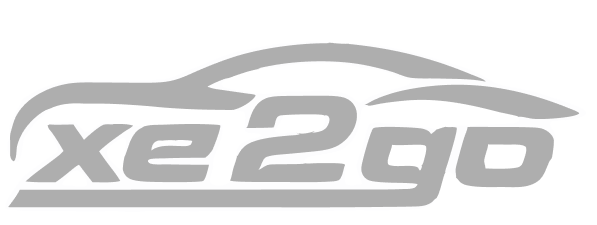
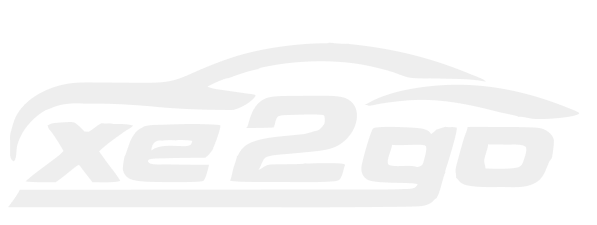
cập nhật style và hình ảnh xe2go

diff --git a/public/css/styles.css b/public/css/styles.css
@@ -543,64 +543,6 @@ CSS này thiết lập một slider toàn màn hình với các chuyển đổi 
     }
 }
 
-/* Chế độ sáng */
-body.light-mode {
-    background-color: white;
-    color: black;
-}
-
-body.light-mode .slider-background {
-    color: black;
-}
-
-body.light-mode .logo-text-waving {
-    border-bottom: 0.1rem solid black;
-}
-
-body.light-mode .hide {
-    background: #f0f0f0;
-    color: #333;
-}
-
-body.light-mode .slider-button {
-    background-color: #f0f0f0;
-    color: black;
-}
-
-body.light-mode .slider-button:hover {
-    background-color: black;
-    color: white;
-}
-
-/* Chế độ tối */
-body.dark-mode {
-    background-color: #121212;
-    color: white;
-}
-
-body.dark-mode .slider-background {
-    color: white;
-}
-
-body.dark-mode .logo-text-waving {
-    border-bottom: 0.1rem solid white;
-}
-
-body.dark-mode .hide {
-    background: #333;
-    color: #ddd;
-}
-
-body.dark-mode .slider-button {
-    background-color: #333;
-    color: white;
-}
-
-body.dark-mode .slider-button:hover {
-    background-color: white;
-    color: black;
-}
-
 /* Đặt navbar ở trên đầu thiết bị */
 #main-menu {
     position: fixed;
@@ -1849,6 +1791,7 @@ section#vfo {
         max-width: 100%;
         margin: 8px 0;
         overflow: hidden;
+        border-radius: var(--bs-border-radius);
 
         .box-image {
             object-fit: cover;
@@ -1970,23 +1913,74 @@ Các mục có nền hình ảnh và bóng đổ. */
 
 /* General styling for section#ypss */
 section#ypss {
-    background-color: white;
-    padding: 80px 100px;
+    display: flex;
+    justify-content: center;
+    position: relative;
+    color: var(--text-secondary);
 
     @media screen and (max-width: 1400px) {
         padding: 54px 32px;
     }
 }
 
+/* Thiết kế khung của tiêu đề nó đậm và có quyền lực khi nhìn */
+section#ypss .container-title {
+    display: flex;
+    align-items: center;
+    justify-content: center;
+    cursor: context-menu;
+    position: absolute;
+    left: 0;
+    top: -2rem;
+    width: -webkit-fill-available;
+    z-index: 1;
+
+    /* Tiêu đề nằm trên nội dung */
+    @media screen and (max-width: 1366px) {
+        top: 1rem;
+    }
+
+    @media screen and (max-width: 500px) {
+        top: -15rem;
+    }
+}
+
+/* thiết kế chữ mạnh mẽ và rõ ràng */
+section#ypss .container-title .title {
+    display: flex;
+    align-items: center;
+    justify-content: center;
+    height: 5rem;
+    background: var(--menu-link);
+    font-weight: 700;
+    font-size: 2rem;
+    color: var(--color-2);
+    text-transform: uppercase;
+    width: 50%;
+    border-radius: 2.5rem;
+    transition: all 0.3s ease-in-out;
+
+    @media screen and (max-width: 500px) {
+        width: 80% !important;
+        font-size: 1.5rem !important;
+    }
+}
+
+section#ypss .container-title .title:hover {
+    color: var(--text-secondary);
+    background: var(--menu-link-reverse);
+    transition: all 0.3s ease-in-out;
+}
+
 /* General container styling */
 section#ypss .container {
-    margin-top: -170px;
-    background-image: url(../images/trang_chu/xe2go/counters_bg.webp);
-    background-size: contain;
-    background-position: center;
-    background-repeat: no-repeat;
+
     box-shadow: 0px 0px 20px rgba(0, 0, 0, 0.1);
-    padding: 80px 100px;
+    padding: 4rem;
+    border-radius: var(--bs-border-radius);
+
+    border: 1px solid var(--menu-link);
+    background-color: #fff;
 
     /* // */
     /* chỉnh lại layout của container khi ở màn hình nhỏ*/
@@ -1996,6 +1990,7 @@ section#ypss .container {
         margin-top: -228px;
         padding: 80px 45px;
         box-shadow: 0px 0px 20px rgba(0, 0, 0, 0.1);
+        background-position: 0 24px;
     }
 
     @media screen and (max-width: 1400px) {
@@ -2008,6 +2003,13 @@ section#ypss .container {
 /* // */
 section#ypss .container .mobile {
     display: none;
+}
+
+section#ypss .container .desktop {
+    min-height: 100px;
+    display: flex;
+    align-items: center;
+    background-color: #ffffff80;
 }
 
 /* // */
@@ -2053,6 +2055,7 @@ section#ypss .box-item {
 
     section#ypss .owl-stage-outer {
         min-height: 200px;
+        padding-top: 4.5rem;
     }
 }
 
@@ -2122,14 +2125,45 @@ Các mục có đường kẻ, văn bản giới hạn dòng, và liên kết ki
 section#meet {
     padding-top: 120px;
     padding-bottom: 420px;
-    background-color: #fff;
+
+    .container>.row {
+        border: 1px solid var(--menu-link);
+        padding: 1rem;
+        border-radius: var(--bs-border-radius);
+        background: #fff;
+    }
+
+    .row>.col-12:nth-child(1) {
+        display: flex;
+        padding: 1rem;
+        border: 1px solid var(--menu-link);
+        background: var(--menu-link-bg);
+        border-radius: var(--bs-border-radius);
+        flex-direction: column;
+    }
+
+    @media screen and (max-width: 500px) {
+        .row>.col-12:nth-child(3) {
+            display: none;
+        }
+    }
+
 
     .box-item {
+
+        @media screen and (max-width: 500px) {
+            flex-direction: column;
+            align-items: center;
+            justify-content: center;
+            padding: 1rem;
+            margin: 1rem;
+
+        }
 
         hr {
             margin: 20px 0;
             border: none;
-            border-top: 5px solid var(--primary-color);
+            border-top: 5px solid var(--background-4);
             width: 60px;
         }
 
@@ -2149,7 +2183,7 @@ section#meet {
             text-transform: capitalize;
             font-size: 2rem;
             font-weight: 700;
-            color: var(--color-4);
+            color: var(--color-2);
         }
 
 
@@ -2186,12 +2220,15 @@ section#meet {
             transform: translateX(150px);
             transition: all 0.5s ease-in-out;
             opacity: .5;
+            padding: 0.5em;
+            background: #ccc;
+            transition: all 0.5s ease-in-out;
+            transition-delay: 1s;
         }
 
         .box-image:nth-child(1).active {
             transform: translateX(0);
-            transition: all 0.5s ease-in-out;
-            transition-delay: 1s;
+            border: 1px solid #eee;
         }
 
         .box-image:nth-child(2) {
@@ -2201,6 +2238,12 @@ section#meet {
             @media screen and (max-width: 768px) {
                 transform: translateY(0);
                 margin-top: 20px;
+            }
+
+            @media screen and (max-width: 500px) {
+                margin: 1rem;
+                width: min-content;
+                height: 64px;
             }
         }
 
@@ -2232,11 +2275,12 @@ section#meet {
 /* section halini-slider */
 /* vì sao chọn chúng tôi? */
 section#halini-slider {
-    padding-bottom: 120px;
+    padding-bottom: 7rem;
 
     .container {
         margin-top: -270px;
         background: var(--menu-link-bg);
+        border-radius: var(--bs-border-radius);
     }
 
     .container-title {
@@ -2775,9 +2819,9 @@ section#partner .list {
     background: white;
     border: 1px solid var(--menu-link);
     z-index: 0;
-    border-radius: 40px;
+    border-radius: var(--bs-border-radius);
     padding: 4rem;
-
+    box-shadow: 0px 0px 20px rgba(0, 0, 0, 0.1);
 
     @media screen and (max-width: 500px) {
         padding: 4rem 2rem;

diff --git a/index.php b/index.php
@@ -169,6 +169,9 @@ o	Tân tâm trong từng dịch vụ.
     <!-- Thành tựu đạt được -->
     <section id="ypss">
         <div class="container">
+            <div class="container-title">
+                <div class="title">Thành Tựu đạt được</div>
+            </div>
             <div class="desktop row">
                 <div class="col-sm-3 col-md-3">
                     <div class="box-item">
